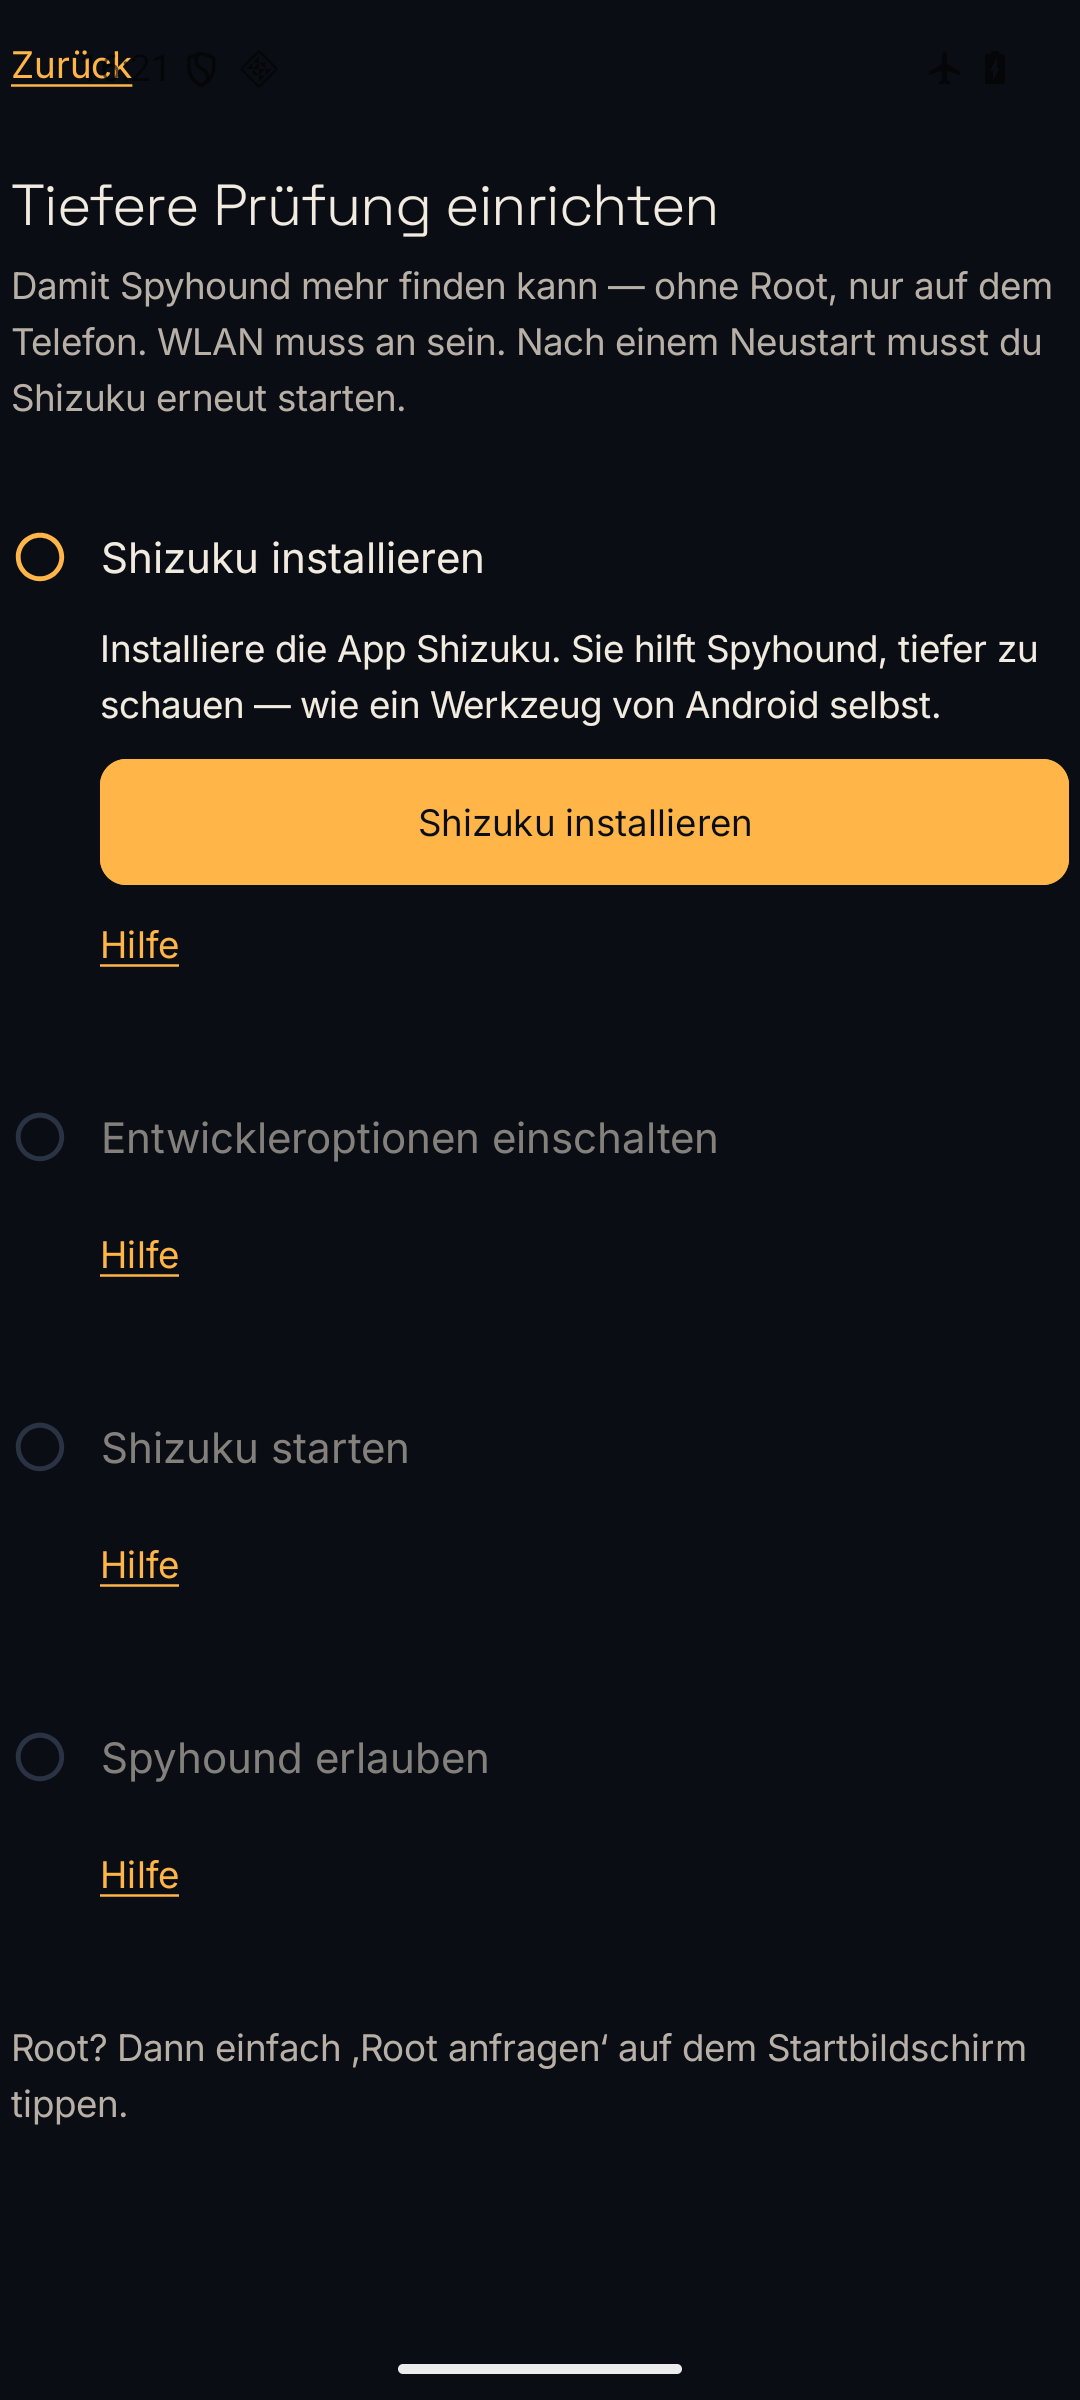
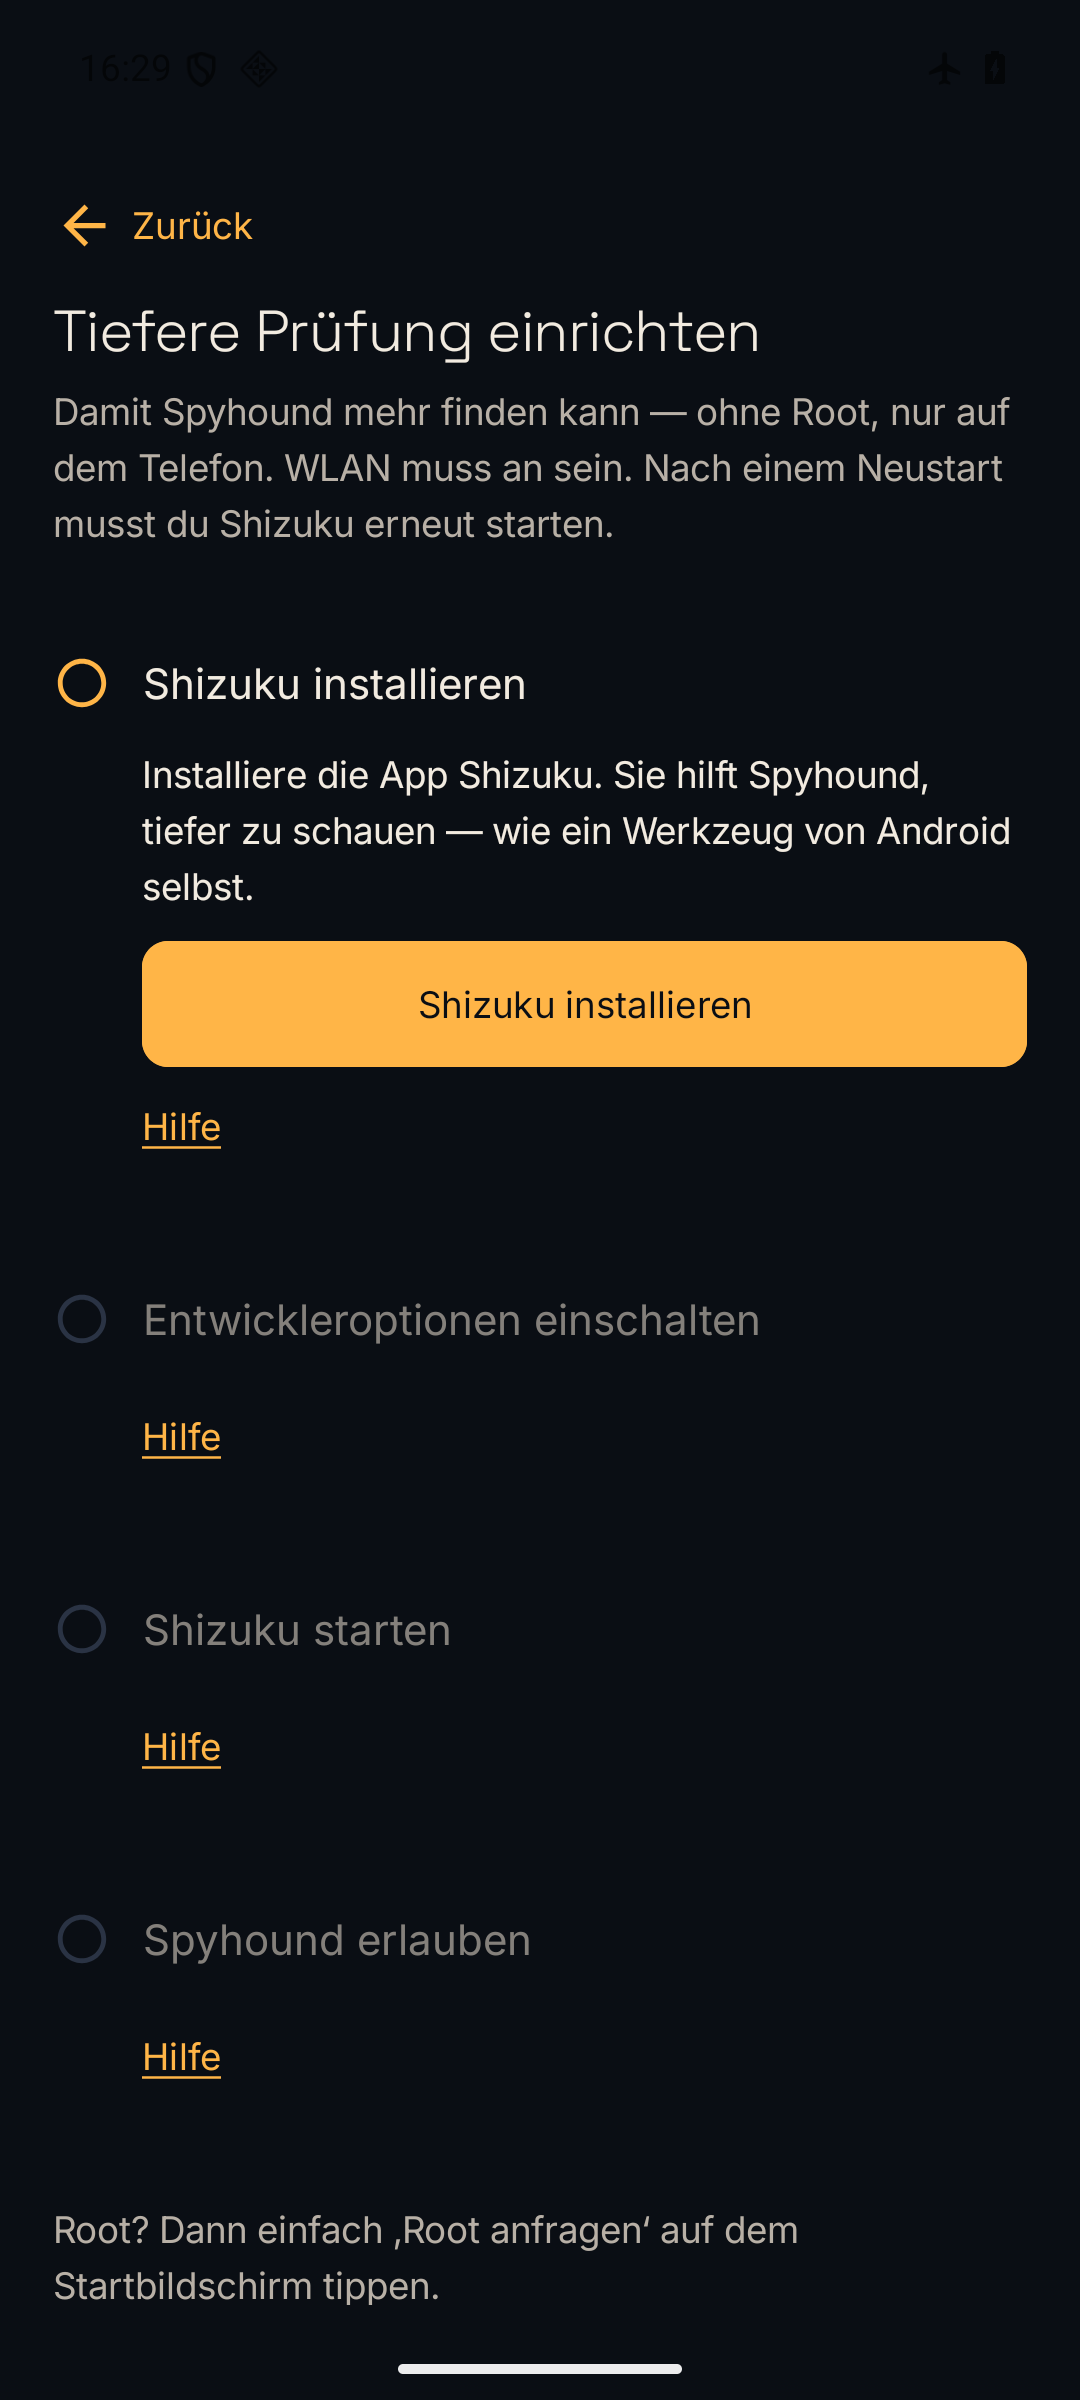
Assistent Tiefere Prüfung: Insets, Ränder und Zurück-Navigation.
Der Setup-Assistent nutzt SpyhoundScaffold wie der Startbildschirm, mit
Pfeil-Zurück, BackHandler und aktualisierten Emulator-Screenshots.

diff --git a/app/src/main/kotlin/de/belkis/spyhound/MainActivity.kt b/app/src/main/kotlin/de/belkis/spyhound/MainActivity.kt
@@ -11,7 +11,6 @@ import androidx.activity.compose.setContent
 import androidx.activity.enableEdgeToEdge
 import androidx.activity.result.contract.ActivityResultContracts
 import androidx.activity.viewModels
-import androidx.compose.foundation.background
 import androidx.compose.foundation.layout.Box
 import androidx.compose.foundation.layout.fillMaxSize
 import androidx.compose.runtime.Composable
@@ -31,7 +30,6 @@ import de.belkis.spyhound.dns.DnsGuard
 import de.belkis.spyhound.scan.GapFix
 import de.belkis.spyhound.scan.ReportText
 import de.belkis.spyhound.ui.MainViewModel
-import de.belkis.spyhound.ui.SpyColors
 import de.belkis.spyhound.ui.SpyhoundScaffold
 import de.belkis.spyhound.ui.SpyhoundTheme
 import de.belkis.spyhound.ui.UiState
@@ -88,18 +86,18 @@ class MainActivity : ComponentActivity() {
                         }
                     }
                     if (showDeepCheckSetup) {
-                        DeepCheckSetupWizard(
-                            snapshot = setupSnapshot,
-                            onDismiss = { showDeepCheckSetup = false },
-                            onAllowSpyhound = { vm.connectShizuku() },
-                            onScanNow = {
-                                showDeepCheckSetup = false
-                                vm.startScan()
-                            },
-                            modifier = Modifier
-                                .fillMaxSize()
-                                .background(SpyColors.Ink),
-                        )
+                        SpyhoundScaffold {
+                            DeepCheckSetupWizard(
+                                snapshot = setupSnapshot,
+                                onDismiss = { showDeepCheckSetup = false },
+                                onAllowSpyhound = { vm.connectShizuku() },
+                                onScanNow = {
+                                    showDeepCheckSetup = false
+                                    vm.startScan()
+                                },
+                                modifier = Modifier.fillMaxSize(),
+                            )
+                        }
                     }
                 }
             }

diff --git a/app/src/main/kotlin/de/belkis/spyhound/ui/components/Common.kt b/app/src/main/kotlin/de/belkis/spyhound/ui/components/Common.kt
@@ -14,6 +14,7 @@ import androidx.compose.foundation.layout.Column
 import androidx.compose.foundation.layout.ColumnScope
 import androidx.compose.foundation.layout.Row
 import androidx.compose.foundation.layout.Spacer
+import androidx.compose.foundation.layout.width
 import androidx.compose.foundation.layout.defaultMinSize
 import androidx.compose.foundation.layout.fillMaxWidth
 import androidx.compose.foundation.layout.height
@@ -22,6 +23,7 @@ import androidx.compose.foundation.layout.size
 import androidx.compose.foundation.layout.wrapContentWidth
 import androidx.compose.foundation.shape.RoundedCornerShape
 import androidx.compose.material.icons.Icons
+import androidx.compose.material.icons.automirrored.filled.ArrowBack
 import androidx.compose.material.icons.filled.Check
 import androidx.compose.material.icons.filled.ExpandMore
 import androidx.compose.material.icons.outlined.RadioButtonUnchecked
@@ -101,6 +103,39 @@ fun SpyButton(
                 modifier = Modifier.padding(horizontal = 16.dp, vertical = 14.dp),
             )
         }
+    }
+}
+
+@Composable
+fun SpyNavigateBack(
+    onClick: () -> Unit,
+    modifier: Modifier = Modifier,
+    label: String = "Zurück",
+) {
+    Row(
+        modifier = modifier
+            .defaultMinSize(minHeight = 48.dp)
+            .clickable(
+                interactionSource = remember { MutableInteractionSource() },
+                indication = null,
+                onClick = onClick,
+            )
+            .semantics { contentDescription = label }
+            .padding(end = 8.dp, bottom = 4.dp),
+        verticalAlignment = Alignment.CenterVertically,
+    ) {
+        Icon(
+            Icons.AutoMirrored.Filled.ArrowBack,
+            contentDescription = null,
+            tint = SpyColors.Amber,
+            modifier = Modifier.size(24.dp),
+        )
+        Spacer(Modifier.width(6.dp))
+        Text(
+            text = label,
+            style = MaterialTheme.typography.labelLarge,
+            color = SpyColors.Amber,
+        )
     }
 }
 

diff --git a/app/src/main/kotlin/de/belkis/spyhound/ui/components/DeepCheckSetupWizard.kt b/app/src/main/kotlin/de/belkis/spyhound/ui/components/DeepCheckSetupWizard.kt
@@ -1,6 +1,6 @@
 package de.belkis.spyhound.ui.components
 
-import androidx.compose.foundation.background
+import androidx.activity.compose.BackHandler
 import androidx.compose.foundation.layout.Arrangement
 import androidx.compose.foundation.layout.Column
 import androidx.compose.foundation.layout.Row
@@ -47,14 +47,13 @@ fun DeepCheckSetupWizard(
 ) {
     val context = LocalContext.current
     val active = activeDeepCheckStep(snapshot)
+    BackHandler(onBack = onDismiss)
     Column(
         modifier
             .fillMaxSize()
-            .background(SpyColors.Ink)
-            .verticalScroll(rememberScrollState())
-            .padding(horizontal = 4.dp, vertical = 8.dp),
+            .verticalScroll(rememberScrollState()),
     ) {
-        TextActionLink(text = "Zurück", onClick = onDismiss, modifier = Modifier.padding(bottom = 8.dp))
+        SpyNavigateBack(onClick = onDismiss)
         if (snapshot.allDone) {
             DonePanel(onScanNow = onScanNow)
             return@Column
